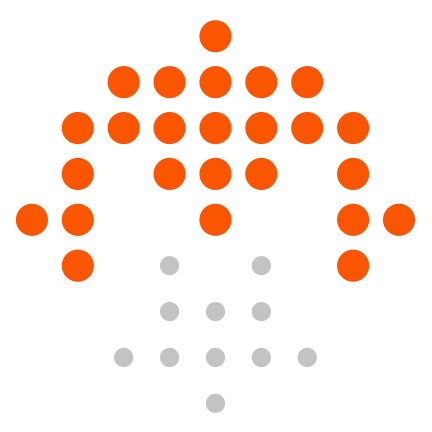
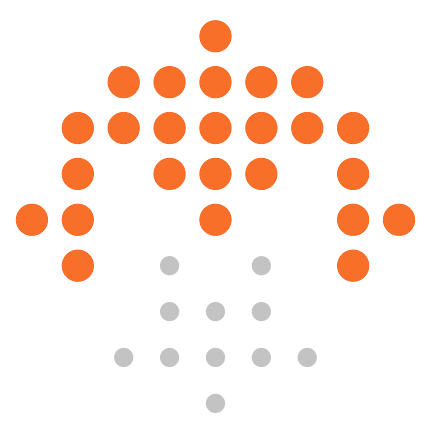
Softer Colors + Parametrization

diff --git a/NodoUI/assets/NodoSystem/NodoSystem.qml b/NodoUI/assets/NodoSystem/NodoSystem.qml
@@ -16,7 +16,7 @@ Item
     property int subMenuButtonHeight: nodoItemHeight
     property int subMenuButtonFontSize: topMenuButtonFontSize
     property int textFontSize: 42
-    property int buttonTextFontSize: topMenuButtonFontSize
+    property int buttonTextFontSize: topMenuButtonFontSize - 8 
     property int subMenuLeftMargin: 10
     property int subMenuTopMargin: 25
 
@@ -28,7 +28,7 @@ Item
 
     property int topMenuTextTopPadding: 0
 
-    property color red: "#F50000"    //R245
+    property color red: "#C80000"    //R245
     property color amber: "#FF9F0A" //255,159,10
     property color green: "#48B400" //R72,G180,B0
     property string syncDot: "●"
@@ -40,8 +40,8 @@ Item
     property color defaultColorNightModeOff: "#F5F5F5"				//1TEXT FONT//
 	property color defaultColorNightModeOn: "#AE0000"							//NMCOLOR2//
     
-	property color highlightedColorNightModeOff: "#FA5501"			//1COLOR BG//
-    property color highlightedColorNightModeOn: "#F50000"			//NMCOLOR1 BG//
+	property color highlightedColorNightModeOff: "#F86F2A"			//1COLOR BG//
+    property color highlightedColorNightModeOn: red //"#F50000"			//NMCOLOR1 BG//
 
     property int infoFieldItemFontSize: textFontSize
     property int infoFieldValueFontSize: textFontSize
@@ -49,8 +49,8 @@ Item
     property int inputFieldItemFontSize: textFontSize
     property int inputFieldValueFontSize: textFontSize
 
-    property color dataFieldTextColorNightModeOn: "#AE0000"						//NMCOLOR2//
-    property color dataFieldTextColorNightModeOff: "#F5F5F5"		//1TEXT FONT//
+    property color dataFieldTextColorNightModeOn: defaultColorNightModeOn //"#AE0000"						//NMCOLOR2//
+    property color dataFieldTextColorNightModeOff: defaultColorNightModeOff //"#F5F5F5"		//1TEXT FONT//
 
     property color dataFieldTitleBGColorNightModeOn: "#2F2F2F" //RGB 47
     property color dataFieldTitleBGColorNightModeOff: "#2F2F2F"
@@ -58,16 +58,16 @@ Item
     property color dataFieldTextBGColorNightModeOn: "#212121" //RGB 33
     property color dataFieldTextBGColorNightModeOff: "#212121"
 
-    property color buttonTextColorNightModeOn: "#F5F5F5"			//1TEXT FONT//
-    property color buttonBGColorNightModeOn: "#AE0000"							//NMCOLOR2//			
+    property color buttonTextColorNightModeOn: defaultColorNightModeOff //"#F5F5F5"			//1TEXT FONT//
+    property color buttonBGColorNightModeOn: defaultColorNightModeOn //"#AE0000"							//NMCOLOR2//			
 
-    property color buttonTextColorNightModeOff: "#F5F5F5"			//1TEXT FONT//
-    property color buttonBGColorNightModeOff: "#FA5501"				//1COLOR BG//
+    property color buttonTextColorNightModeOff: defaultColorNightModeOff //"#F5F5F5"			//1TEXT FONT//
+    property color buttonBGColorNightModeOff: highlightedColorNightModeOff //"#FA5501"				//1COLOR BG//
 
-    property color dayTextColorNightModeOn: "#F50000"				//NMCOLOR1 BG//
+    property color dayTextColorNightModeOn: highlightedColorNightModeOn //"#F50000"				//NMCOLOR1 BG//
     property color dayTextColorNightModeOff: "#CFCFCF"				//ANALOG CLOCK DAY COLOR//
 
-    property color dateTextColorNightModeOn: "#AE0000"						//NMCOLOR2 CLOCK NIGHT COLOR//
+    property color dateTextColorNightModeOn: defaultColorNightModeOn //"#AE0000"						//NMCOLOR2 CLOCK NIGHT COLOR//
     property color dateTextColorNightModeOff: "#9D9D9D"				//ANALOG CLOCK DAY COLOR//
 
     property color switchBackgroundColor: "#414141"	//RGB65
@@ -84,18 +84,18 @@ Item
 
     property int comboboxFontSize: 25
 
-    property color comboBoxHighlightedItemBGColorNightModeOff: "#FA5501" 	//1COLOR BG//
-    property color comboBoxHighlightedItemBGColorNightModeOn: "#F50000"		//NMCOLOR1 BG//
+    property color comboBoxHighlightedItemBGColorNightModeOff: //highlightedColorNightModeOff "#FA5501" 	//1COLOR BG//
+    property color comboBoxHighlightedItemBGColorNightModeOn: highlightedColorNightModeOn //"#F50000"		//NMCOLOR1 BG//
 
-    property color comboBoxTextColor: "#F5F5F5"							//1TEXT FONT//
+    property color comboBoxTextColor: defaultColorNightModeOff //"#F5F5F5"							//1TEXT FONT//
 
-    //property color lockIndicatorBorderColorNightModeOn: "#F50000"
-    //property color lockIndicatorFilledColorNightModeOn: "#F50000"
-    property color lockIndicatorBorderColor: "#FA5501"						//1COLOR BG//
-    property color lockIndicatorFilledColor: "#FA5501"						//1COLOR BG//
+    //property color lockIndicatorBorderColorNightModeOn: highlightedColorNightModeOn //"#F50000"
+    //property color lockIndicatorFilledColorNightModeOn: highlightedColorNightModeOn //"#F50000"
+    property color lockIndicatorBorderColor: highlightedColorNightModeOff //"#FA5501"						//1COLOR BG//
+    property color lockIndicatorFilledColor: highlightedColorNightModeOff //"#FA5501"						//1COLOR BG//
     property color lockIndicatorEmptyColor: "black"
     property color lockButtonColor: dataFieldTextBGColorNightModeOff//"#232323"												//3COLOR BG//
-    property color lockButtonTextColor: "#F5F5F5"						//1TEXT FONT//
+    property color lockButtonTextColor: defaultColorNightModeOff //"#F5F5F5"						//1TEXT FONT//
     property int lockButtonTextSize: 55
     property int lockButtonWidth: 160
     property int lockButtonHeight: 160
@@ -105,11 +105,11 @@ Item
     property color keyboardButtonUnpressed: dataFieldTextBGColorNightModeOff//"#282828"
     property color keyboardButtonPressed: switchBackgroundColor//"#323232"						//KBONPRESS//
     property color keyboardBackgroundColor: "black"
-    property color textColorOnUnpressedButton: "#F5F5F5"				//1TEXT FONT//
-    property color capsLockOnColor: "#FA5501"							//1COLOR BG//
+    property color textColorOnUnpressedButton: defaultColorNightModeOff //"#F5F5F5"				//1TEXT FONT//
+    property color capsLockOnColor: highlightedColorNightModeOff //"#FA5501"							//1COLOR BG//
 
     property color inputPreviewBackgroundColor: keyboardButtonUnpressed						//3COLOR BG//
-    property color inputPreviewTextColor: "#F5F5F5"						//1TEXT FONT//
+    property color inputPreviewTextColor: defaultColorNightModeOff //"#F5F5F5"						//1TEXT FONT//
 
     property color popupBackgroundColor: dataFieldTitleBGColorNightModeOff//"#232323"								//2COLOR BG//
 }
